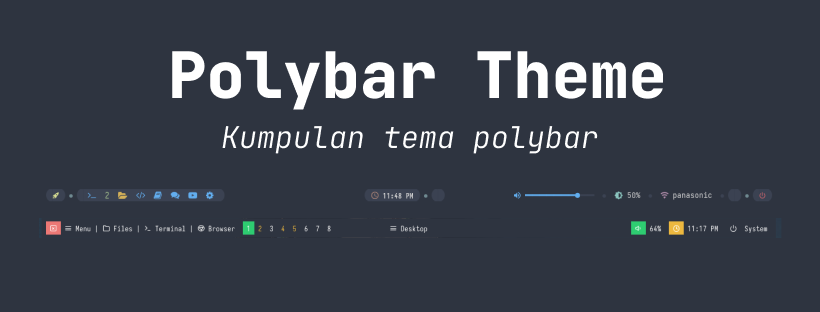
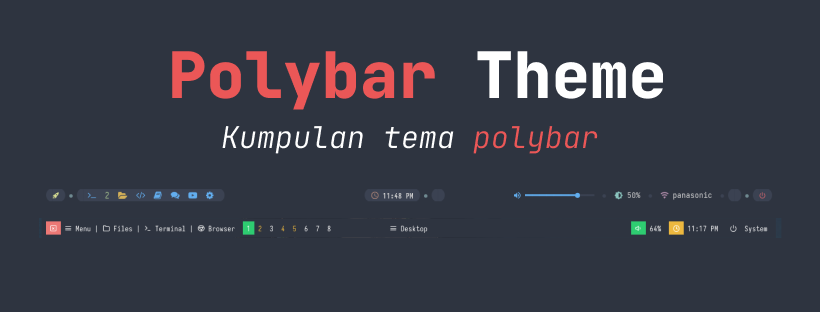
docs: memepercantik gambar

Changed region(s): [[0.1829, 0.1442, 0.5488, 0.3462], [0.5793, 0.4038, 0.7317, 0.4904]]

diff --git a/arwen/README.md b/arwen/README.md
@@ -3,3 +3,5 @@
 ![arwen1](arwen1.png)
 ![arwen2](arwen2.png)
 ![arwen3](arwen3.png)
+
+![dekstop_theme](arwentheme.png)
